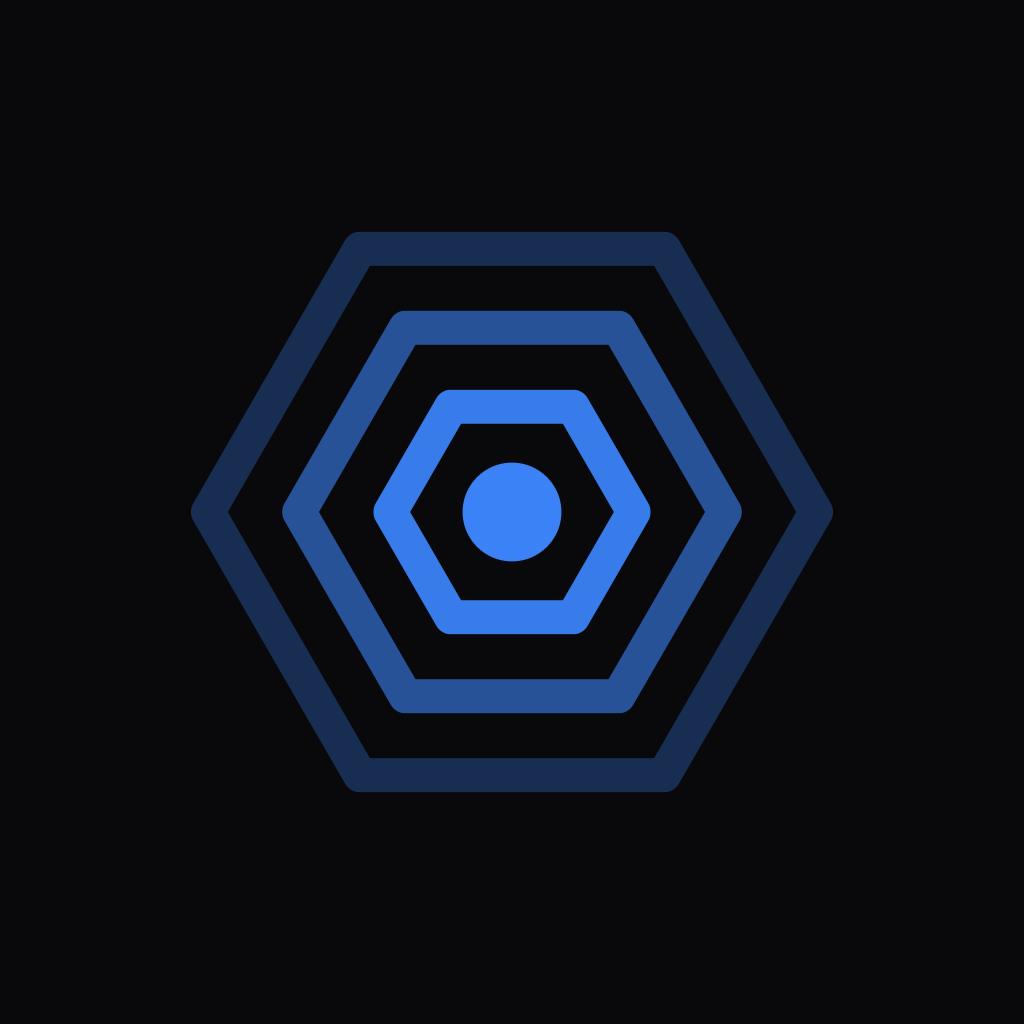
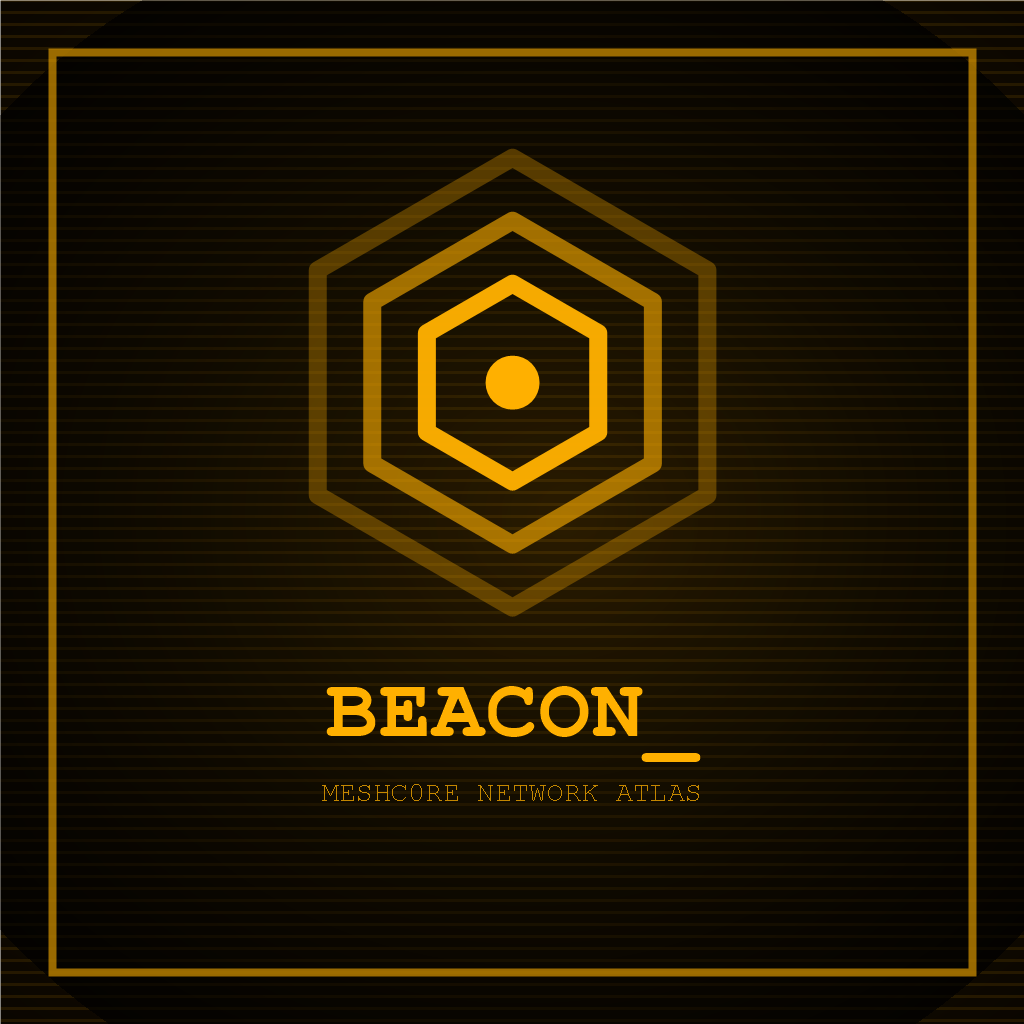
Finish CRT asset polish

Changed region(s): [[0.1875, 0.125, 0.8438, 0.8125], [0.0, 0.0, 1.0, 1.0]]

diff --git a/src/features/live/LiveView.tsx b/src/features/live/LiveView.tsx
@@ -290,6 +290,25 @@ function readCssVar(name: string, fallback: string): string {
   return getComputedStyle(document.documentElement).getPropertyValue(name).trim() || fallback;
 }
 
+function cssColorToRgb(color: string, fallback: [number, number, number]): [number, number, number] {
+  const hex = color.trim().match(/^#?([\da-f]{3}|[\da-f]{6})$/i)?.[1];
+  if (hex) {
+    const full = hex.length === 3 ? hex.split("").map((part) => part + part).join("") : hex;
+    return [
+      Number.parseInt(full.slice(0, 2), 16),
+      Number.parseInt(full.slice(2, 4), 16),
+      Number.parseInt(full.slice(4, 6), 16),
+    ];
+  }
+  const rgb = color.match(/rgba?\((\d+)[,\s]+(\d+)[,\s]+(\d+)/i);
+  if (rgb) return [Number(rgb[1]), Number(rgb[2]), Number(rgb[3])];
+  return fallback;
+}
+
+function rgba(parts: [number, number, number], alpha: number): string {
+  return `rgba(${parts[0]}, ${parts[1]}, ${parts[2]}, ${Math.max(0, Math.min(1, alpha))})`;
+}
+
 function storedNumber(key: string, fallback: number, min: number, max: number): number {
   if (typeof window === "undefined") return fallback;
   const raw = Number.parseFloat(localStorage.getItem(key) ?? "");
@@ -375,6 +394,9 @@ function useLiveAnimationCanvas(
     let slowFrames = 0;
     const frameSamples: number[] = [];
     const matrixColor = readCssVar("--color-green", "#42ff7c");
+    const heatCoreColor = cssColorToRgb(readCssVar("--crt-phosphor", "#ffb000"), [255, 176, 0]);
+    const heatMidColor = cssColorToRgb(readCssVar("--crt-phosphor-soft", "#ff7a18"), [255, 122, 24]);
+    const heatEdgeColor = cssColorToRgb(readCssVar("--color-secondary", "#42ff7c"), [66, 255, 124]);
     const debugPerf = new URLSearchParams(window.location.search).has("livePerf");
     type ProjectedPoint = { x: number; y: number };
     interface ProjectedLivePath {
@@ -595,10 +617,10 @@ function useLiveAnimationCanvas(
           const radius = 16 + Math.min(22, heat.intensity * 5) + 12 * (1 - progress);
           const alpha = (1 - progress) * Math.min(0.08, 0.03 + heat.intensity * 0.014);
           const gradient = ctx.createRadialGradient(point.x, point.y, 0, point.x, point.y, radius);
-          gradient.addColorStop(0, `rgba(255, 87, 34, ${alpha})`);
-          gradient.addColorStop(0.38, `rgba(255, 202, 40, ${alpha * 0.5})`);
-          gradient.addColorStop(0.72, `rgba(66, 165, 245, ${alpha * 0.24})`);
-          gradient.addColorStop(1, "rgba(13, 71, 161, 0)");
+          gradient.addColorStop(0, rgba(heatCoreColor, alpha));
+          gradient.addColorStop(0.38, rgba(heatMidColor, alpha * 0.5));
+          gradient.addColorStop(0.72, rgba(heatEdgeColor, alpha * 0.24));
+          gradient.addColorStop(1, rgba(heatCoreColor, 0));
 
           ctx.save();
           ctx.globalCompositeOperation = "lighter";

diff --git a/src/index.css b/src/index.css
@@ -56,13 +56,6 @@
 
   body::before {
     background:
-      radial-gradient(
-        ellipse at center,
-        transparent 0%,
-        transparent calc(48% + (var(--crt-curvature, 0.55) * 10%)),
-        rgba(0, 0, 0, 0.26) 78%,
-        rgba(0, 0, 0, 0.68) 100%
-      ),
       repeating-linear-gradient(
         to bottom,
         rgba(0, 0, 0, calc(var(--crt-scanline-opacity, 0.34) * 0.82)) 0,
@@ -87,7 +80,7 @@
     isolation: isolate;
     background:
       radial-gradient(circle at 50% 50%, color-mix(in srgb, var(--crt-phosphor, var(--color-primary)) 7%, transparent), transparent 44%),
-      linear-gradient(180deg, rgba(255, 255, 255, 0.025), transparent 12%, rgba(0, 0, 0, 0.34) 100%);
+      var(--color-bg-base);
   }
 
   * {
@@ -206,12 +199,7 @@
 }
 
 .crt-shell::after {
-  content: "";
-  position: absolute;
-  inset: -8%;
-  z-index: 81;
-  pointer-events: none;
-  background: radial-gradient(ellipse at center, transparent 58%, rgba(0, 0, 0, 0.44) 100%);
+  content: none;
 }
 
 .crt-panel {
@@ -350,8 +338,7 @@ canvas {
       color-mix(in srgb, var(--color-green) 18%, transparent) 1px,
       transparent 1px,
       transparent 5px
-    ),
-    radial-gradient(circle at center, transparent 0, rgba(0, 0, 0, 0.28) 100%);
+    );
   mix-blend-mode: screen;
   animation: live-matrix-scan 7s linear infinite;
 }

diff --git a/src/features/atlas/AtlasView.tsx b/src/features/atlas/AtlasView.tsx
@@ -302,8 +302,6 @@ export function AtlasView({ wsManager, onViewNode }: AtlasViewProps) {
     <div className="relative flex min-h-0 flex-1 overflow-hidden bg-bg-base">
       <div ref={containerRef} data-dark={isDark} className="flex-1" />
 
-      <div className="pointer-events-none absolute inset-0 bg-[radial-gradient(circle_at_center,transparent_40%,rgba(0,0,0,0.46)_100%)]" />
-
       <div className="absolute left-3 top-3 z-10 flex w-[min(560px,calc(100vw-24px))] flex-col gap-2">
         <div className="rounded border border-border bg-bg-surface/92 p-3 shadow-2xl backdrop-blur">
           <div className="flex flex-col gap-2 sm:flex-row sm:items-center sm:justify-between">